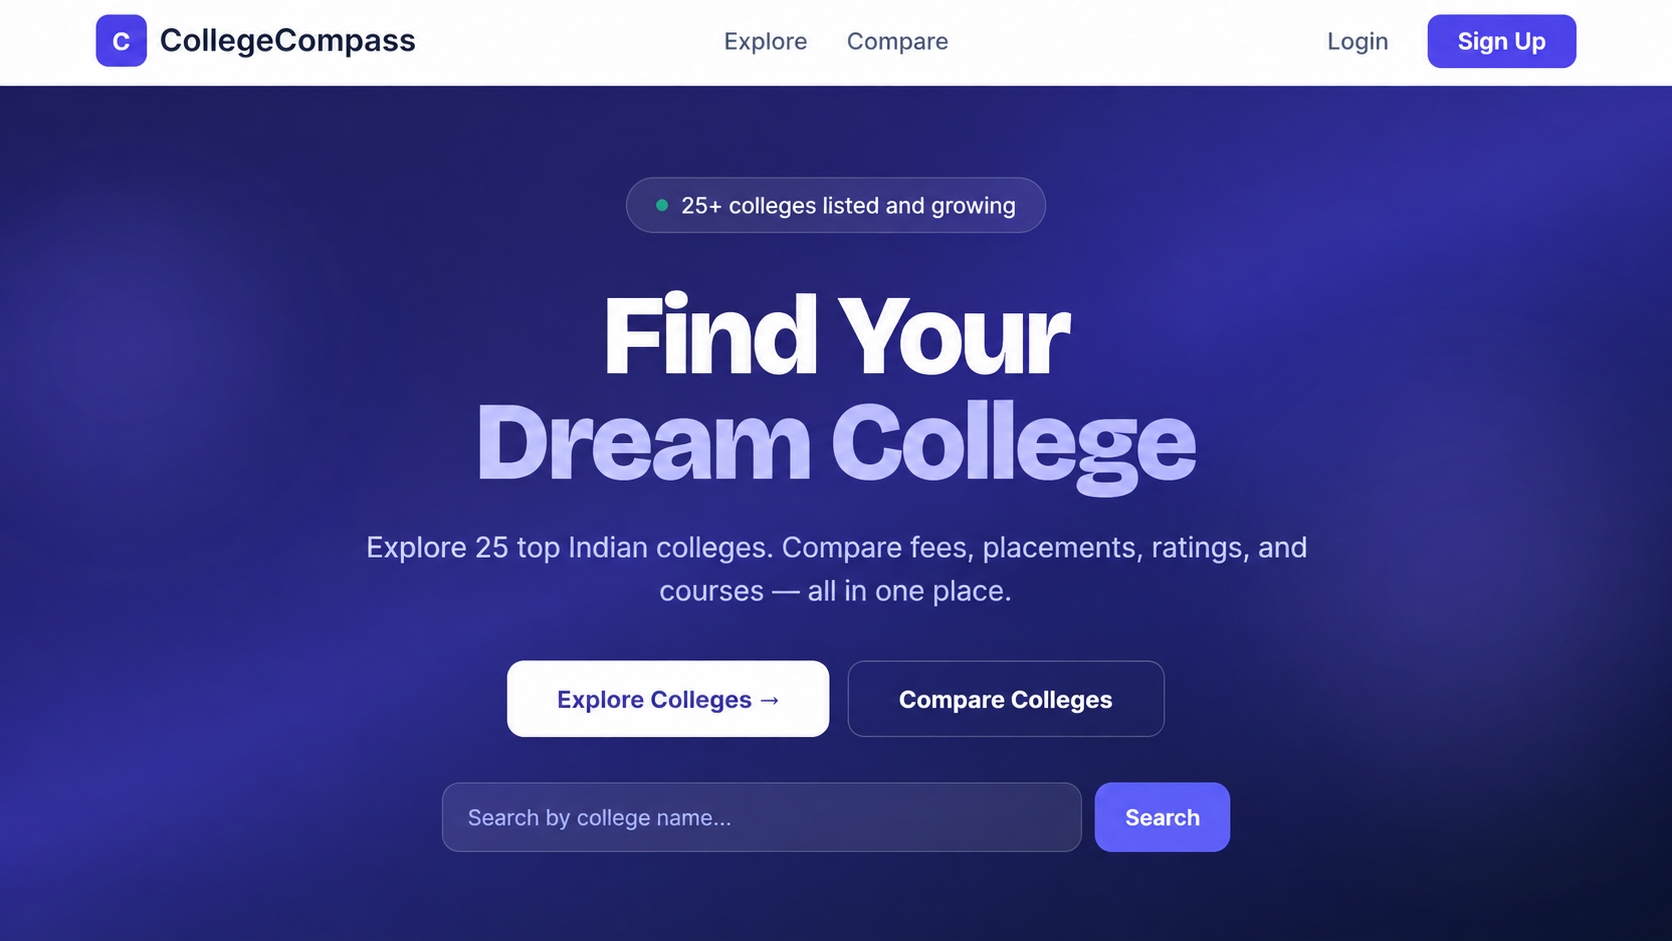
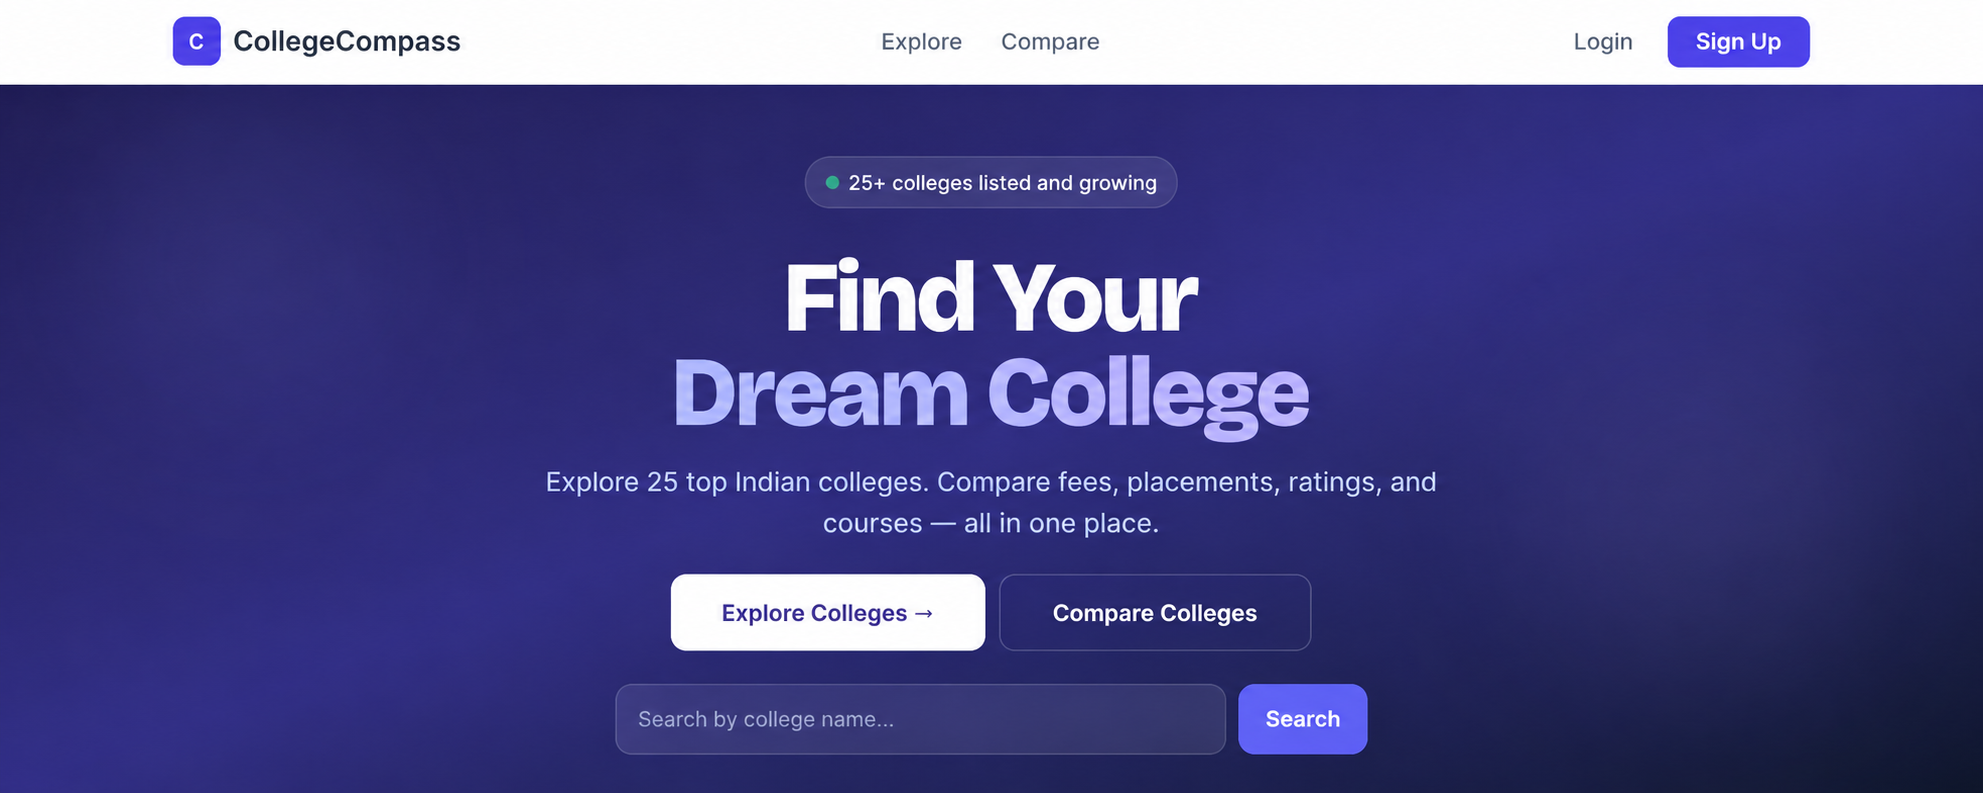
Update CollegeCompass preview crop

diff --git a/index.html b/index.html
@@ -694,10 +694,13 @@ section {
 }
 
 /* CollegeCompass screenshot */
+
+/* CollegeCompass screenshot — fill project card */
 .college-preview-img {
-  object-fit: contain;
+  width: 100%;
+  height: 100%;
+  object-fit: cover;
   object-position: center center;
-  background: #211f55;
 }
 
 /* Project number overlay */
@@ -1330,7 +1333,6 @@ footer {
         loading="lazy"
       />
     </div>
-
 
       <div class="project-body">
         <div class="project-tags">
